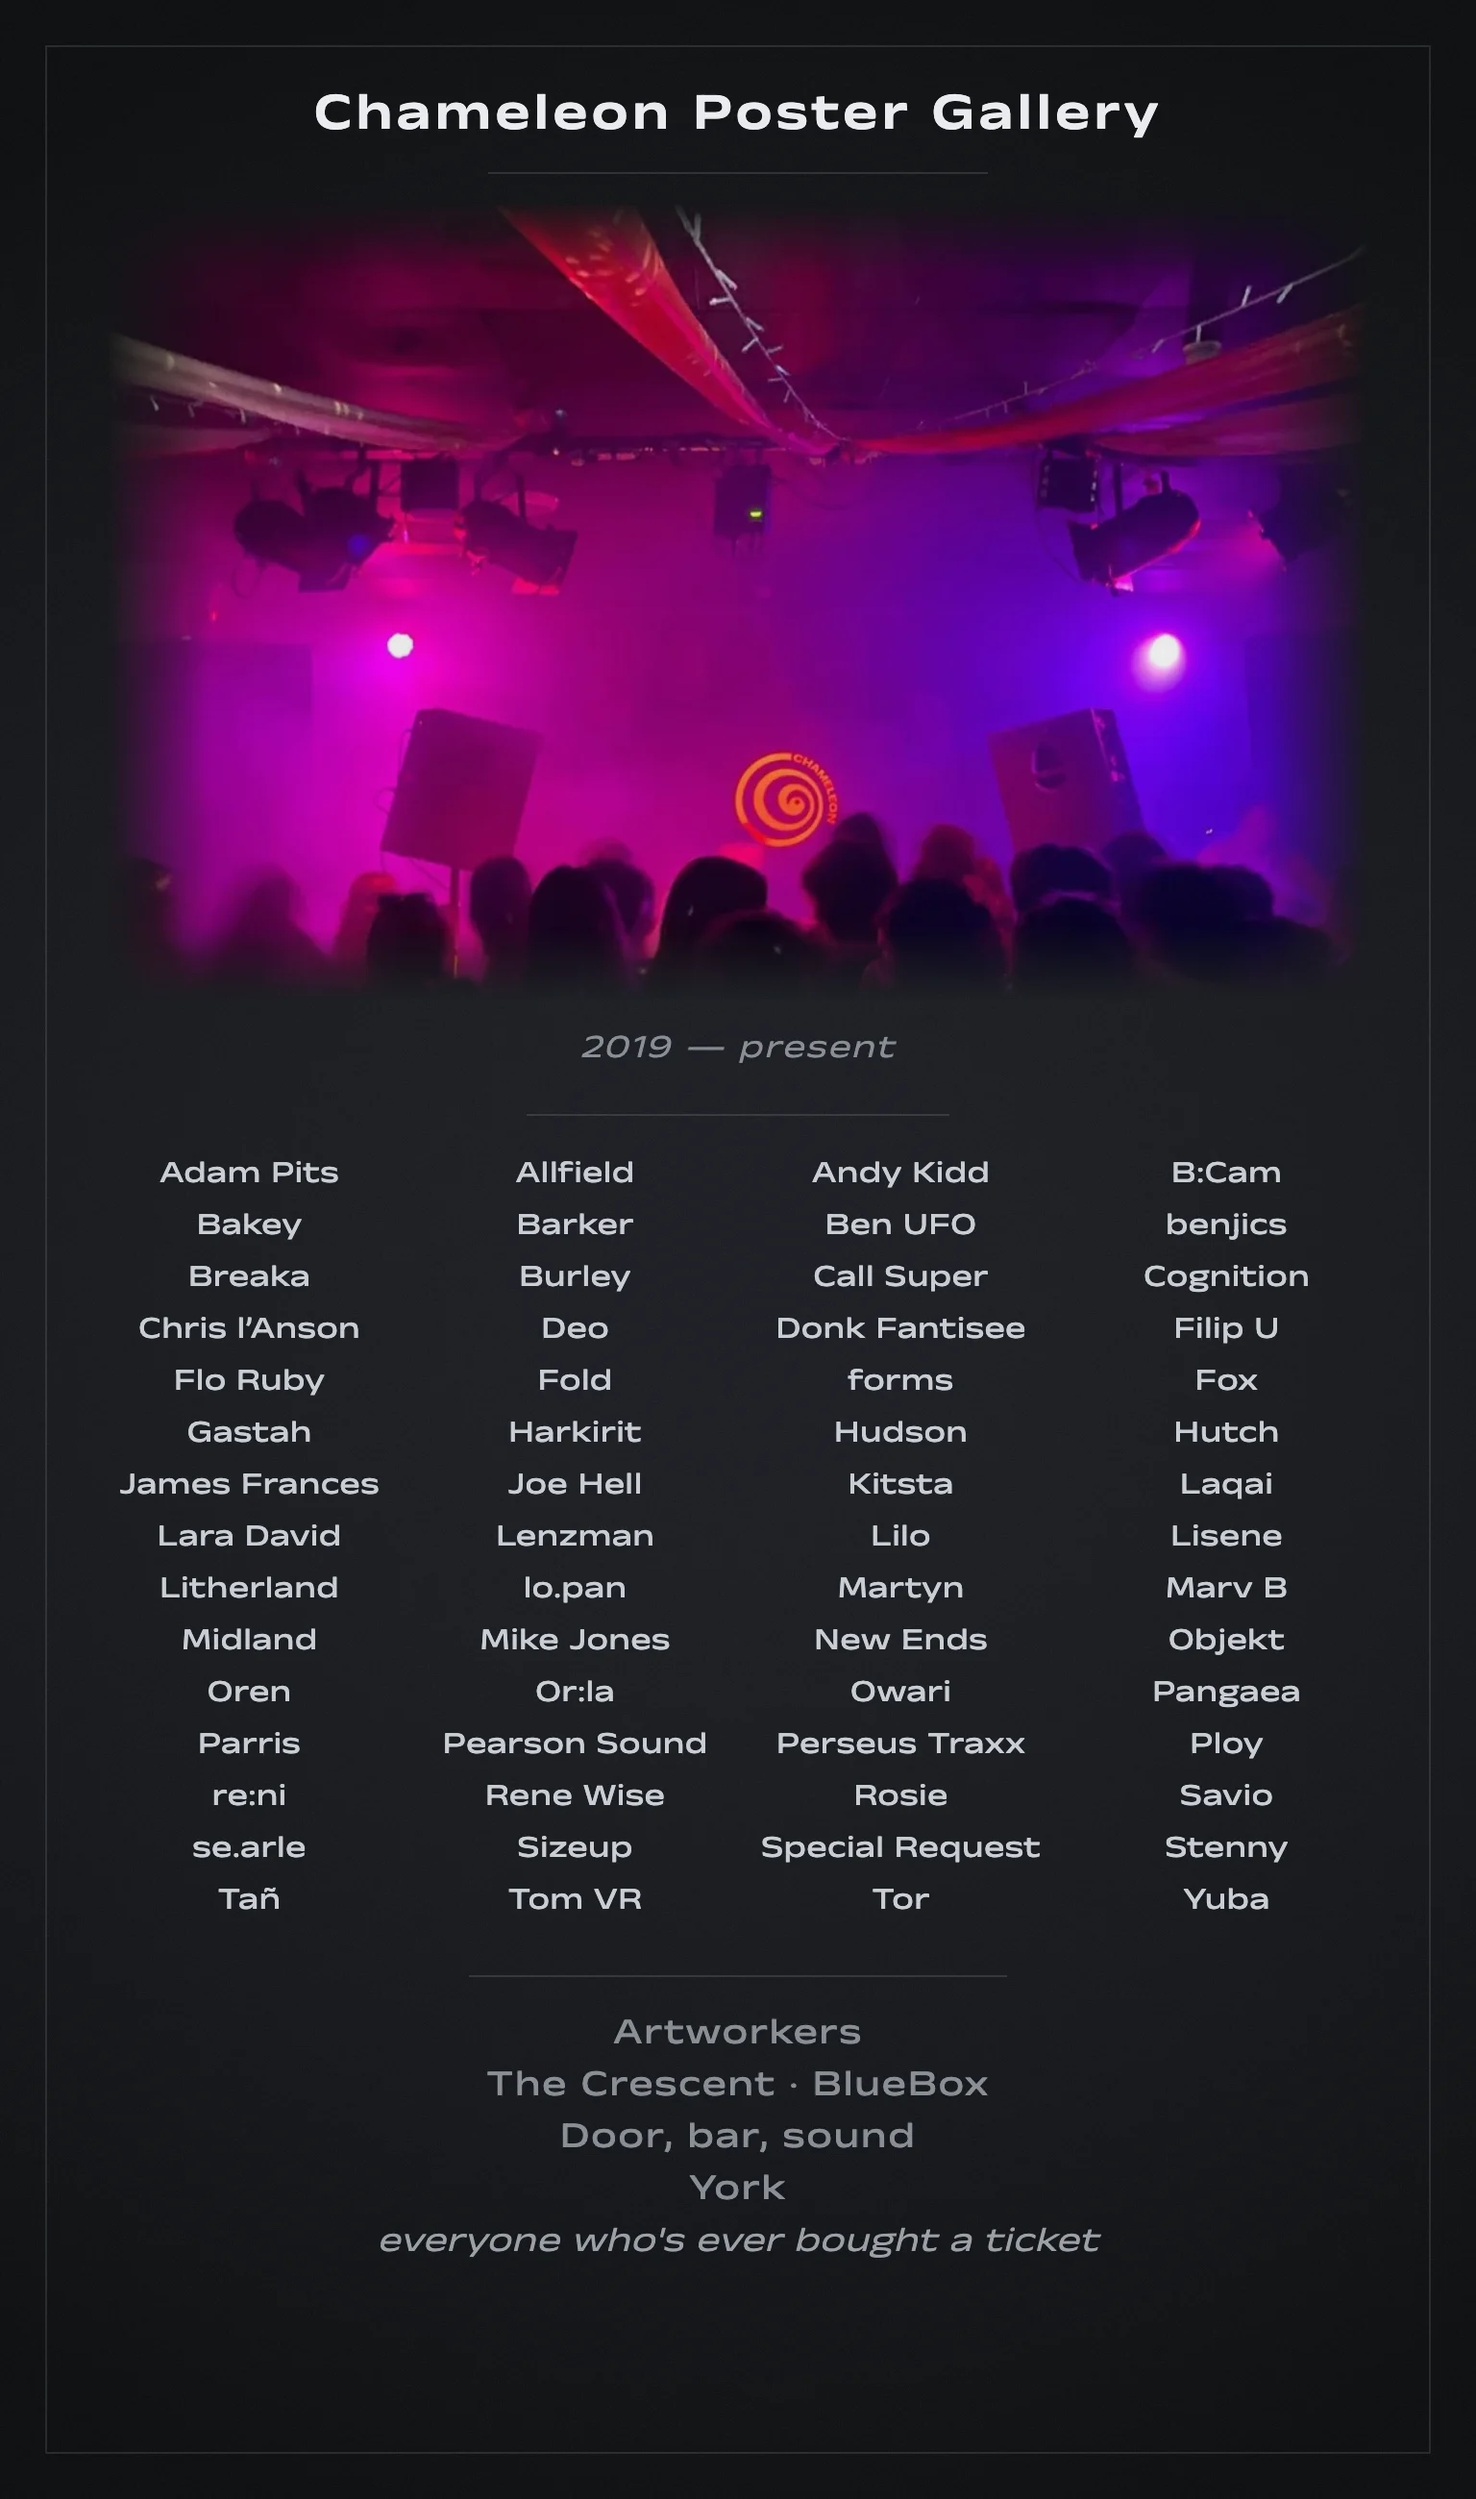
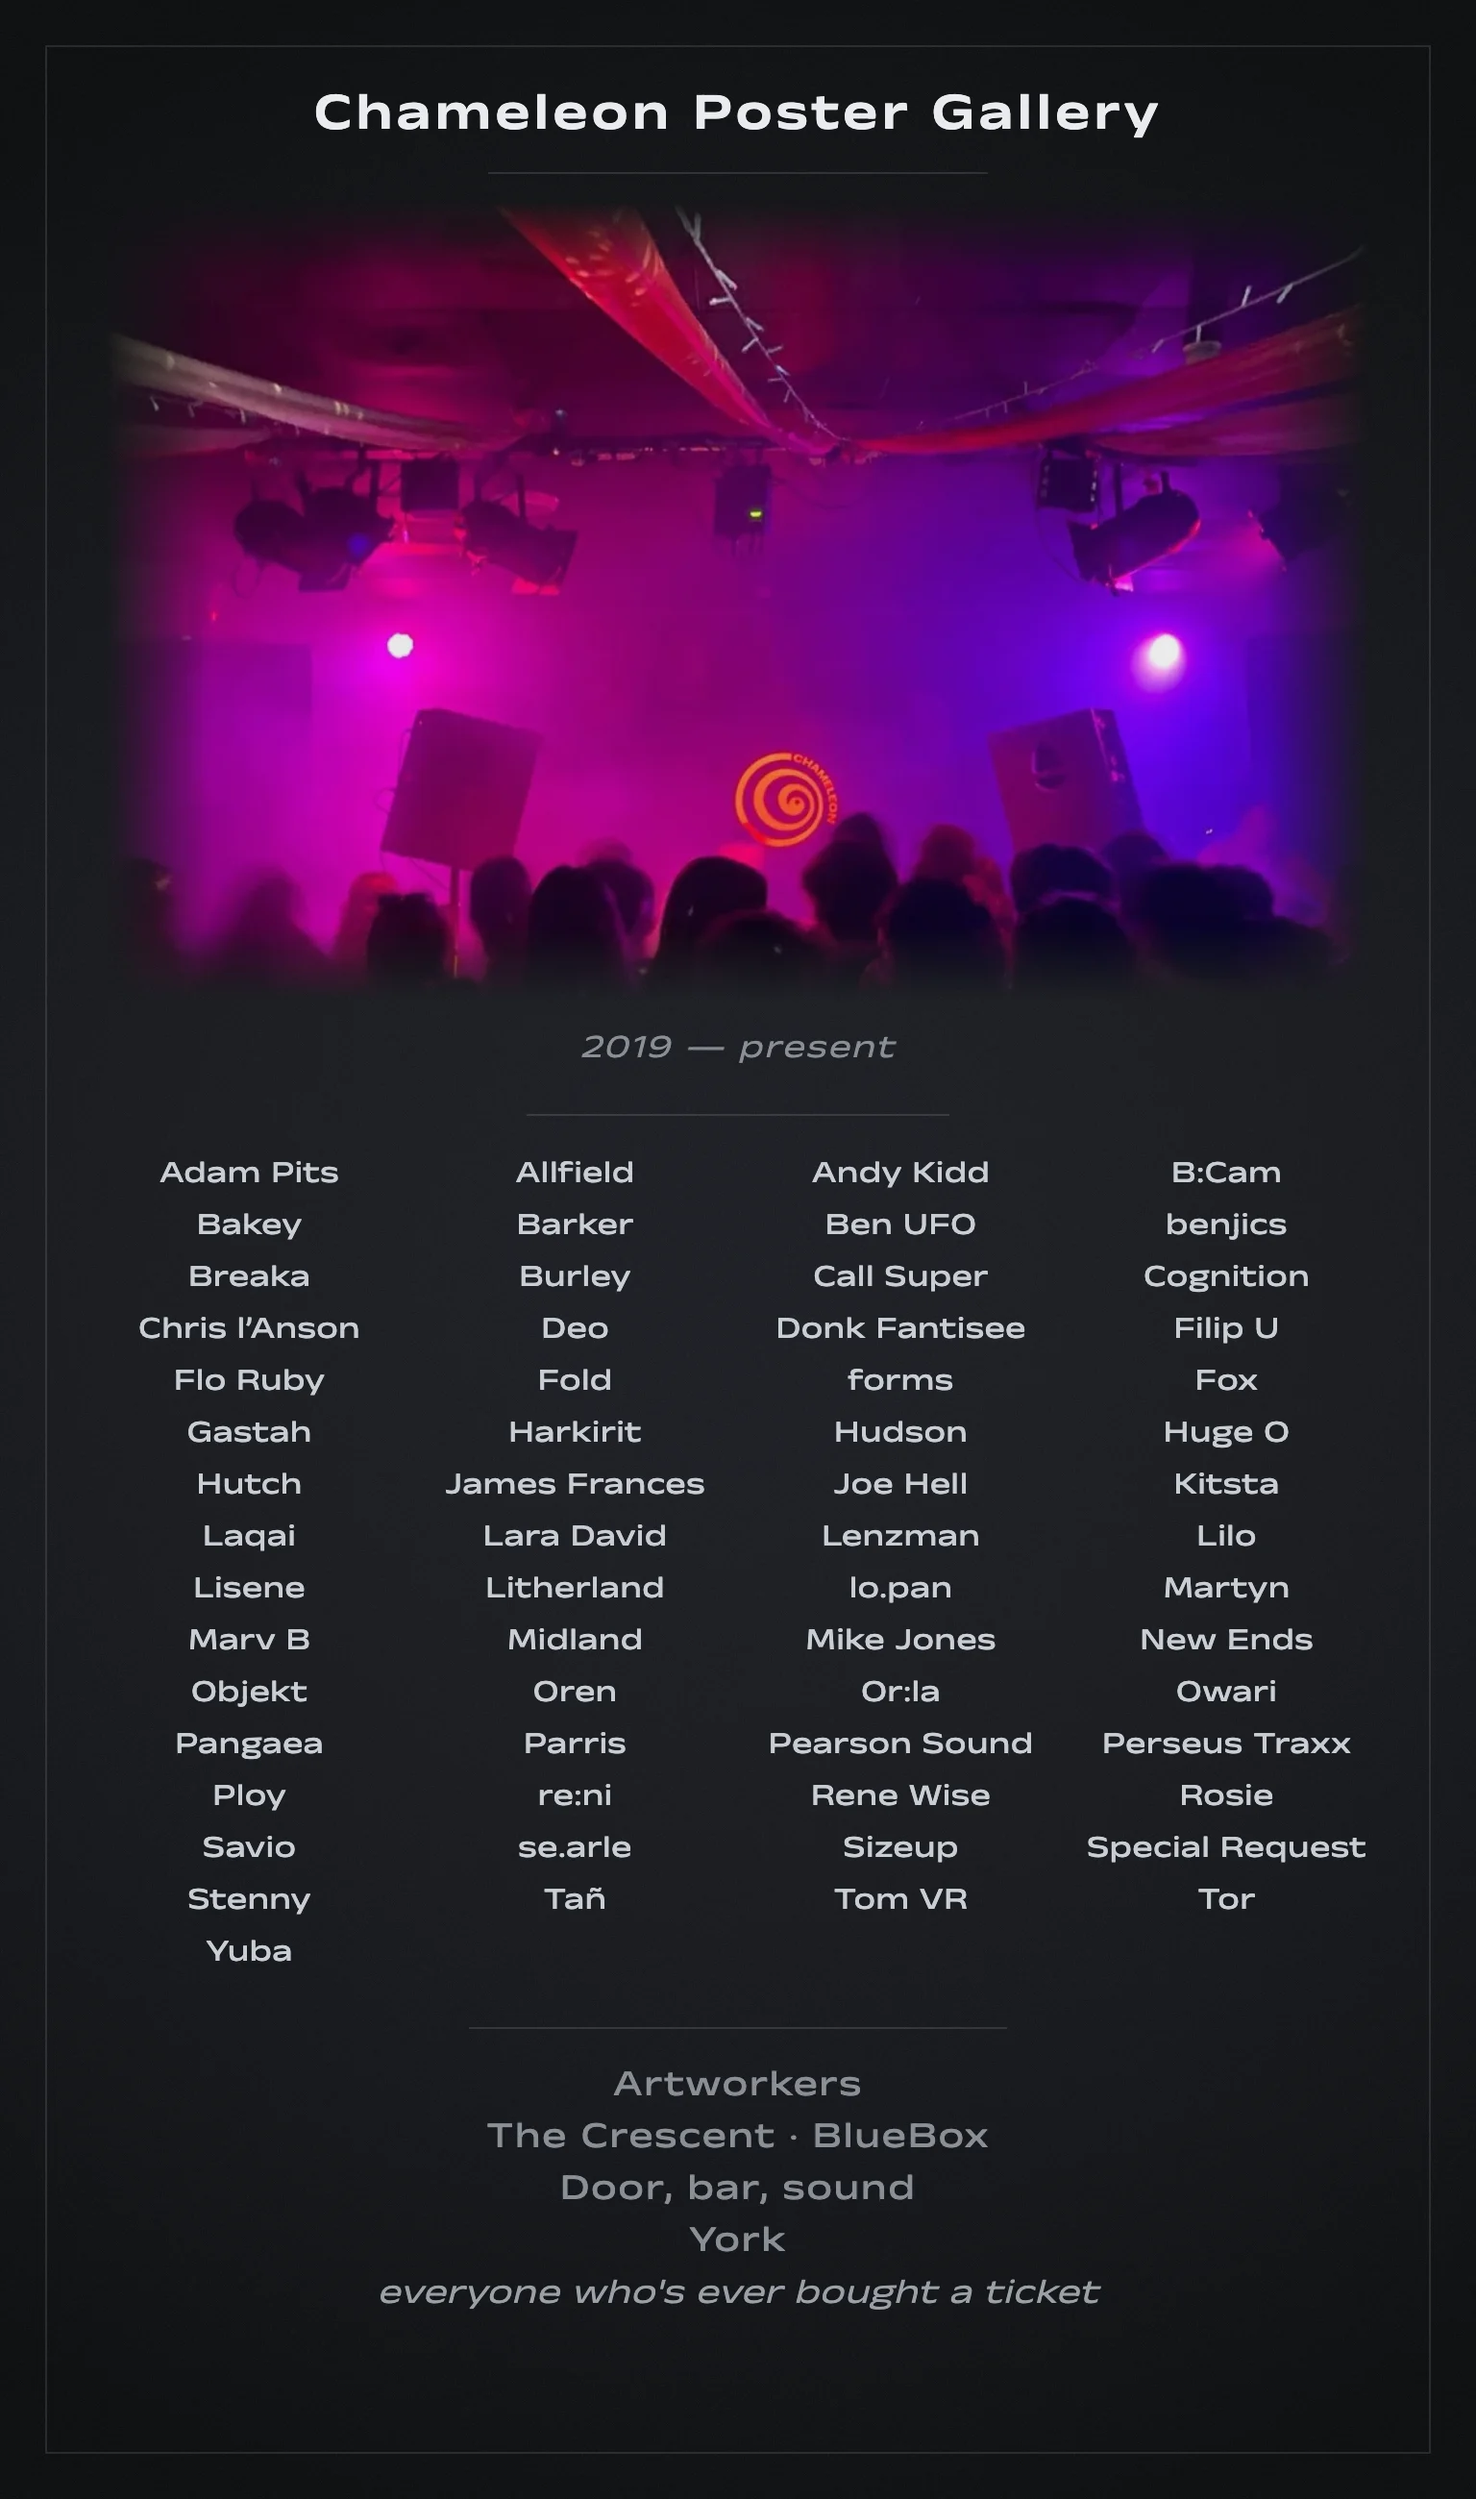
metadata updates

diff --git a/CHAMELEON/index.html b/CHAMELEON/index.html
@@ -269,6 +269,7 @@
     .card .divider  { width: 20px; margin: 7px 0 6px; }
     .card .meta     { font-size: 8.5px; letter-spacing: 0.2em; }
     .card .venue    { font-size: 8.5px; letter-spacing: 0.14em; margin-top: 3px; }
+    .card .badge    { font-size: 6.5px; letter-spacing: 0.16em; padding: 2px 5px; top: 6px; right: 7px; }
   }
 </style>
 </head>
@@ -340,15 +341,15 @@ const POSTERS = [
   { img: 'posters/Special Request b2b Hutch - 5th Birthday - 13 Dec 2024.webp', title: 'Special Request b2b Hutch · 5th Birthday', meta: '13 Dec 2024', venue: 'Bluebox, York',         lineup: ['Special Request', 'Hutch', 'Allfield', 'Deo', 'James Frances', 'Mike Jones', 'se.arle'] },
   { img: 'posters/Pearson Sound - 29 Nov 2024.webp',                          title: 'Pearson Sound',                          meta: '29 Nov 2024', venue: 'The Crescent, York',    lineup: ['Pearson Sound'] },
   { img: 'posters/Chameleon Disco - 2 Nov 2024.webp',                         title: 'Chameleon Disco',                        meta: '2 Nov 2024',  venue: 'Bluebox, York',         lineup: ['Filip U', 'Mike Jones', 'se.arle'] },
-  { img: 'posters/Chameleon x Meridian - Peckham Audio - 18 Oct 2024.webp',   title: 'Chameleon × Meridian · Peckham Audio',   meta: '18 Oct 2024', venue: 'Peckham Audio, London', lineup: ['Deo', 'B:Cam', 'Flo Ruby', 'Allfield', 'Owari'] },
-  { img: 'posters/Chameleon Free Party - 21 Sep 2024.webp',                   title: 'Chameleon Free Party',                   meta: '21 Sep 2024', venue: 'Bluebox, York',         lineup: ['Deo'] },
+  { img: 'posters/Chameleon x Meridian - Peckham Audio - 18 Oct 2024.webp',   title: 'Chameleon × Meridian · Peckham Audio',   meta: '18 Oct 2024', venue: 'Peckham Audio, London', lineup: ['Deo', 'B:Cam', 'Flo Ruby', 'Allfield', 'Owari', 'forms', 'Yuba'] },
+  { img: 'posters/Chameleon Free Party - 21 Sep 2024.webp',                   title: 'Chameleon Free Party',                   meta: '21 Sep 2024', venue: 'Bluebox, York',         lineup: ['benjics', 'Harkirit', 'Deo'] },
   { img: 'posters/Ben UFO - 10 Aug 2024.webp',                                title: 'Ben UFO',                                meta: '10 Aug 2024', venue: 'The Crescent, York',    lineup: ['Ben UFO', 'Deo'] },
   { img: 'posters/OnRo - 29 Jun 2024.webp',                                   title: 'On Rotation',                            meta: '29 Jun 2024', venue: 'Bluebox, York',         lineup: ['Adam Pits', "Chris l'Anson", 'Lisene', 'Deo', 'se.arle'] },
-  { img: 'posters/Chameleon Techno Soundclash - 7 Jun 2024.webp',             title: 'A Techno Soundclash',                    meta: '7 Jun 2024',  venue: 'Bluebox, York',         lineup: ['Deo', 'Perseus Traxx'] },
+  { img: 'posters/Chameleon Techno Soundclash - 7 Jun 2024.webp',             title: 'A Techno Soundclash',                    meta: '7 Jun 2024',  venue: 'Bluebox, York',         lineup: ['Deo', 'Harkirit', 'Tor', 'Burley', 'Perseus Traxx', 'Andy Kidd'] },
   { img: 'posters/Martyn - 4 May 2024.webp',                                  title: 'Martyn',                                 meta: '4 May 2024',  venue: 'The Crescent, York',    lineup: ['Martyn'] },
-  { img: 'posters/Community Night - 19 Apr 2024.webp',                        title: 'Community Night',                        meta: '19 Apr 2024', venue: 'Bluebox, York',         lineup: ['Deo', 'Oren', 'se.arle', 'Chameleon'] },
+  { img: 'posters/Community Night - 19 Apr 2024.webp',                        title: 'Community Night',                        meta: '19 Apr 2024', venue: 'Bluebox, York',         lineup: ['Lilo', 'Filip U', 'benjics', 'Deo & Oren', 'Gastah & Laqai', 'Huge O', 'se.arle', 'lo.pan', 'Harkirit'] },
   { img: 'posters/Fold - 22 Mar 2024.webp',                                   title: 'Fold',                                   meta: '22 Mar 2024', venue: 'Bluebox, York',         lineup: ['Fold'] },
-  { img: 'posters/Stenny - 1 Mar 2024.webp',                                  title: 'Stenny & B:Cam',                         meta: '1 Mar 2024',  venue: 'Bluebox, York',         lineup: ['Stenny', 'B:Cam'] },
+  { img: 'posters/Stenny - 1 Mar 2024.webp',                                  title: 'Stenny',                                 meta: '1 Mar 2024',  venue: 'Bluebox, York',         lineup: ['Stenny', 'B:Cam'] },
   { img: 'posters/Call Super - 16 Feb 2024.webp',                             title: 'Call Super',                             meta: '16 Feb 2024', venue: 'The Crescent, York',    lineup: ['Call Super', 'Deo'] },
   { img: 'posters/Cham & Friends - Vol. 3 - 2 Feb 2024.webp',                 title: 'Cham & Friends · Vol. 3',                meta: '2 Feb 2024',  venue: 'Bluebox, York',         lineup: ['Oren'] },
   { img: 'posters/Bakey b2b Breaka - 19 Jan 2024.webp',                       title: 'Bakey & Breaka',                         meta: '19 Jan 2024', venue: 'Bluebox, York',         lineup: ['Bakey', 'Breaka'] },
@@ -358,23 +359,23 @@ const POSTERS = [
   { img: 'posters/Kitsta - 3 Nov 2023.webp',                                  title: 'Kitsta',                                 meta: '3 Nov 2023',  venue: 'Bluebox, York',         lineup: ['Kitsta', 'se.arle'] },
   { img: 'posters/Reni b2b Ploy - 13 Oct 2023.webp',                          title: 'Re:ni b2b Ploy',                         meta: '13 Oct 2023', venue: 'The Crescent, York',    lineup: ['re:ni', 'Ploy', 'Deo'] },
   { img: 'posters/Residents Night - 22 Sep 2023.webp',                        title: 'Residents Night',                        meta: '22 Sep 2023', venue: 'Bluebox, York',         lineup: ['Allfield', 'B:Cam', 'Deo', 'Owari', 'Yuba'] },
-  { img: 'posters/OnRo x Chameleon - 9th Birthday - 23 Sep 2023.webp',        title: 'On Rotation',                            meta: '3 Sep 2023',  venue: 'Plant & Deck, Leeds',   lineup: ['Adam Pits', "Chris l'Anson", 'Deo'] },
+  { img: 'posters/OnRo x Chameleon - 9th Birthday - 23 Sep 2023.webp',        title: 'On Rotation',                            meta: '3 Sep 2023',  venue: 'Plant & Deck, Leeds',   lineup: ['Adam Pits', "Chris l'Anson", 'Deo', 'Allfield', 'B:Cam'] },
   { img: 'posters/Cham & Friends - Vol. 2 - 21 Jul 2023.webp',                title: 'Deo, Oren, se.arle',                     meta: '21 Jul 2023', venue: 'Bluebox, York',         lineup: ['Deo', 'Oren', 'se.arle'] },
   { img: 'posters/Midland - 9 Jun 2023.webp',                                 title: 'Midland',                                meta: '9 Jun 2023',  venue: 'The Crescent, York',    lineup: ['Midland', 'Lara David'] },
   { img: 'posters/Deo - 2 Jun 2023.webp',                                     title: 'Deo',                                    meta: '2 Jun 2023',  venue: 'Bluebox, York',         lineup: ['Deo'] },
-  { img: 'posters/Cham & Friends - Vol. 2 - 30 Apr 2023.webp',                title: 'Cham & Friends · Vol. 2',                meta: '30 Apr 2023', venue: 'Bluebox, York',         lineup: ['B:Cam', 'Deo', 'se.arle', 'Yuba'] },
-  { img: 'posters/Cham & Friends - Vol. 1 - 14 Apr 2023.webp',                title: 'Cham & Friends · Vol. 1',                meta: '14 Apr 2023', venue: 'Bluebox, York',         lineup: ['Allfield', 'Oren'] },
+  { img: 'posters/Cham & Friends - Vol. 2 - 30 Apr 2023.webp',                title: 'Cham & Friends · Vol. 2',                meta: '30 Apr 2023', venue: 'Bluebox, York',         lineup: ['Litherland', 'B:Cam b2b Deo', 'se.arle', 'Yuba'] },
+  { img: 'posters/Cham & Friends - Vol. 1 - 14 Apr 2023.webp',                title: 'Cham & Friends · Vol. 1',                meta: '14 Apr 2023', venue: 'Bluebox, York',         lineup: ['Allfield', 'Oren', 'Harkirit', 'Sizeup'] },
   { img: 'posters/Marv - 17 Mar 2023.webp',                                   title: 'Marv B',                                 meta: '17 Mar 2023', venue: 'Bluebox, York',         lineup: ['Marv B', 'Yuba'] },
   { img: 'posters/Barker - 17 Feb 2023.webp',                                 title: 'Barker (Live)',                          meta: '17 Feb 2023', venue: 'The Crescent, York',    lineup: ['Barker', 'Deo'] },
   { img: 'posters/Tan - 3 Feb 2023.webp',                                     title: 'Tañ',                                    meta: '3 Feb 2023',  venue: 'Bluebox, York',         lineup: ['Tañ', 'B:Cam', 'Allfield'] },
-  { img: 'posters/Space Cadets - 20 Jan 2023.webp',                           title: 'Space Cadets',                           meta: '20 Jan 2023', venue: 'Bluebox, York',         lineup: ['Adam Pits', 'Deo'] },
+  { img: 'posters/Space Cadets - 20 Jan 2023.webp',                           title: 'Space Cadets',                           meta: '20 Jan 2023', venue: 'Bluebox, York',         lineup: ['Adam Pits', 'Deo', 'Lisene'] },
 
   // ---- 2022
-  { img: 'posters/Hutch - Chameleon 3rd Birthday - 3 Dec 2022.webp',          title: 'Hutch · Chameleon 3rd Birthday',         meta: '2 Dec 2022',  venue: 'Bluebox, York',         lineup: ['Hutch', 'Allfield', 'B:Cam', 'Deo', 'New Ends', 'Yuba', 'Chameleon'] },
+  { img: 'posters/Hutch - Chameleon 3rd Birthday - 3 Dec 2022.webp',          title: 'Hutch · Chameleon 3rd Birthday',         meta: '2 Dec 2022',  venue: 'Bluebox, York',         lineup: ['Hutch', 'Allfield', 'B:Cam', 'Deo', 'New Ends', 'Yuba'] },
   { img: 'posters/Pangaea - 14 Oct 2022.webp',                                title: 'Pangaea',                                meta: '14 Oct 2022', venue: 'The Crescent, York',    lineup: ['Pangaea', 'Deo'] },
-  { img: 'posters/Chameleon Residents - 29 Sep 2022.webp',                    title: 'A Sum Of',                               meta: '30 Sep 2022', venue: 'Bluebox, York',         lineup: ['Allfield', 'B:Cam', 'Deo', 'Owari', 'Yuba', 'Chameleon'] },
+  { img: 'posters/Chameleon Residents - 29 Sep 2022.webp',                    title: 'A Sum Of',                               meta: '30 Sep 2022', venue: 'Bluebox, York',         lineup: ['Allfield', 'B:Cam', 'Deo', 'Owari', 'Yuba'] },
   { img: 'posters/Breaka & Tom VR - 18 Jun 2022.webp',                        title: 'Breaka & Tom VR',                        meta: '18 Jun 2022', venue: 'The Crescent, York',    lineup: ['Breaka', 'Tom VR', 'Owari'] },
-  { img: 'posters/Chameleon Intimate Party - 17 Apr 2022.webp',               title: 'An Intimate Party',                      meta: '17 Apr 2022', venue: 'Bluebox, York',         lineup: ['Deo', 'Allfield', 'Yuba', 'B:Cam', 'Chameleon'] },
+  { img: 'posters/Chameleon Intimate Party - 17 Apr 2022.webp',               title: 'An Intimate Party',                      meta: '17 Apr 2022', venue: 'Bluebox, York',         lineup: ['Deo', 'Allfield', 'Yuba', 'B:Cam'] },
   { img: 'posters/The Chameleon - Residents - 18 Mar 2022.webp',              title: 'The Chameleon',                          meta: '18 Mar 2022', venue: 'Bluebox, York',         lineup: ['Allfield', 'B:Cam', 'Deo', 'Owari', 'New Ends', 'Yuba'] },
   { img: 'posters/Barker - 25 Feb 2022.webp',                                 title: 'Barker',                                 meta: '25 Feb 2022', venue: 'Bluebox, York',         lineup: ['Barker', 'Oren', 'Deo', 'Yuba'] },
   { img: 'posters/Lenzman & Fox - 13 Feb 2022.webp',                          title: 'Lenzman & Fox',                          meta: '13 Feb 2022', venue: 'Bluebox, York',         lineup: ['Lenzman', 'Fox', 'Deo'] },
